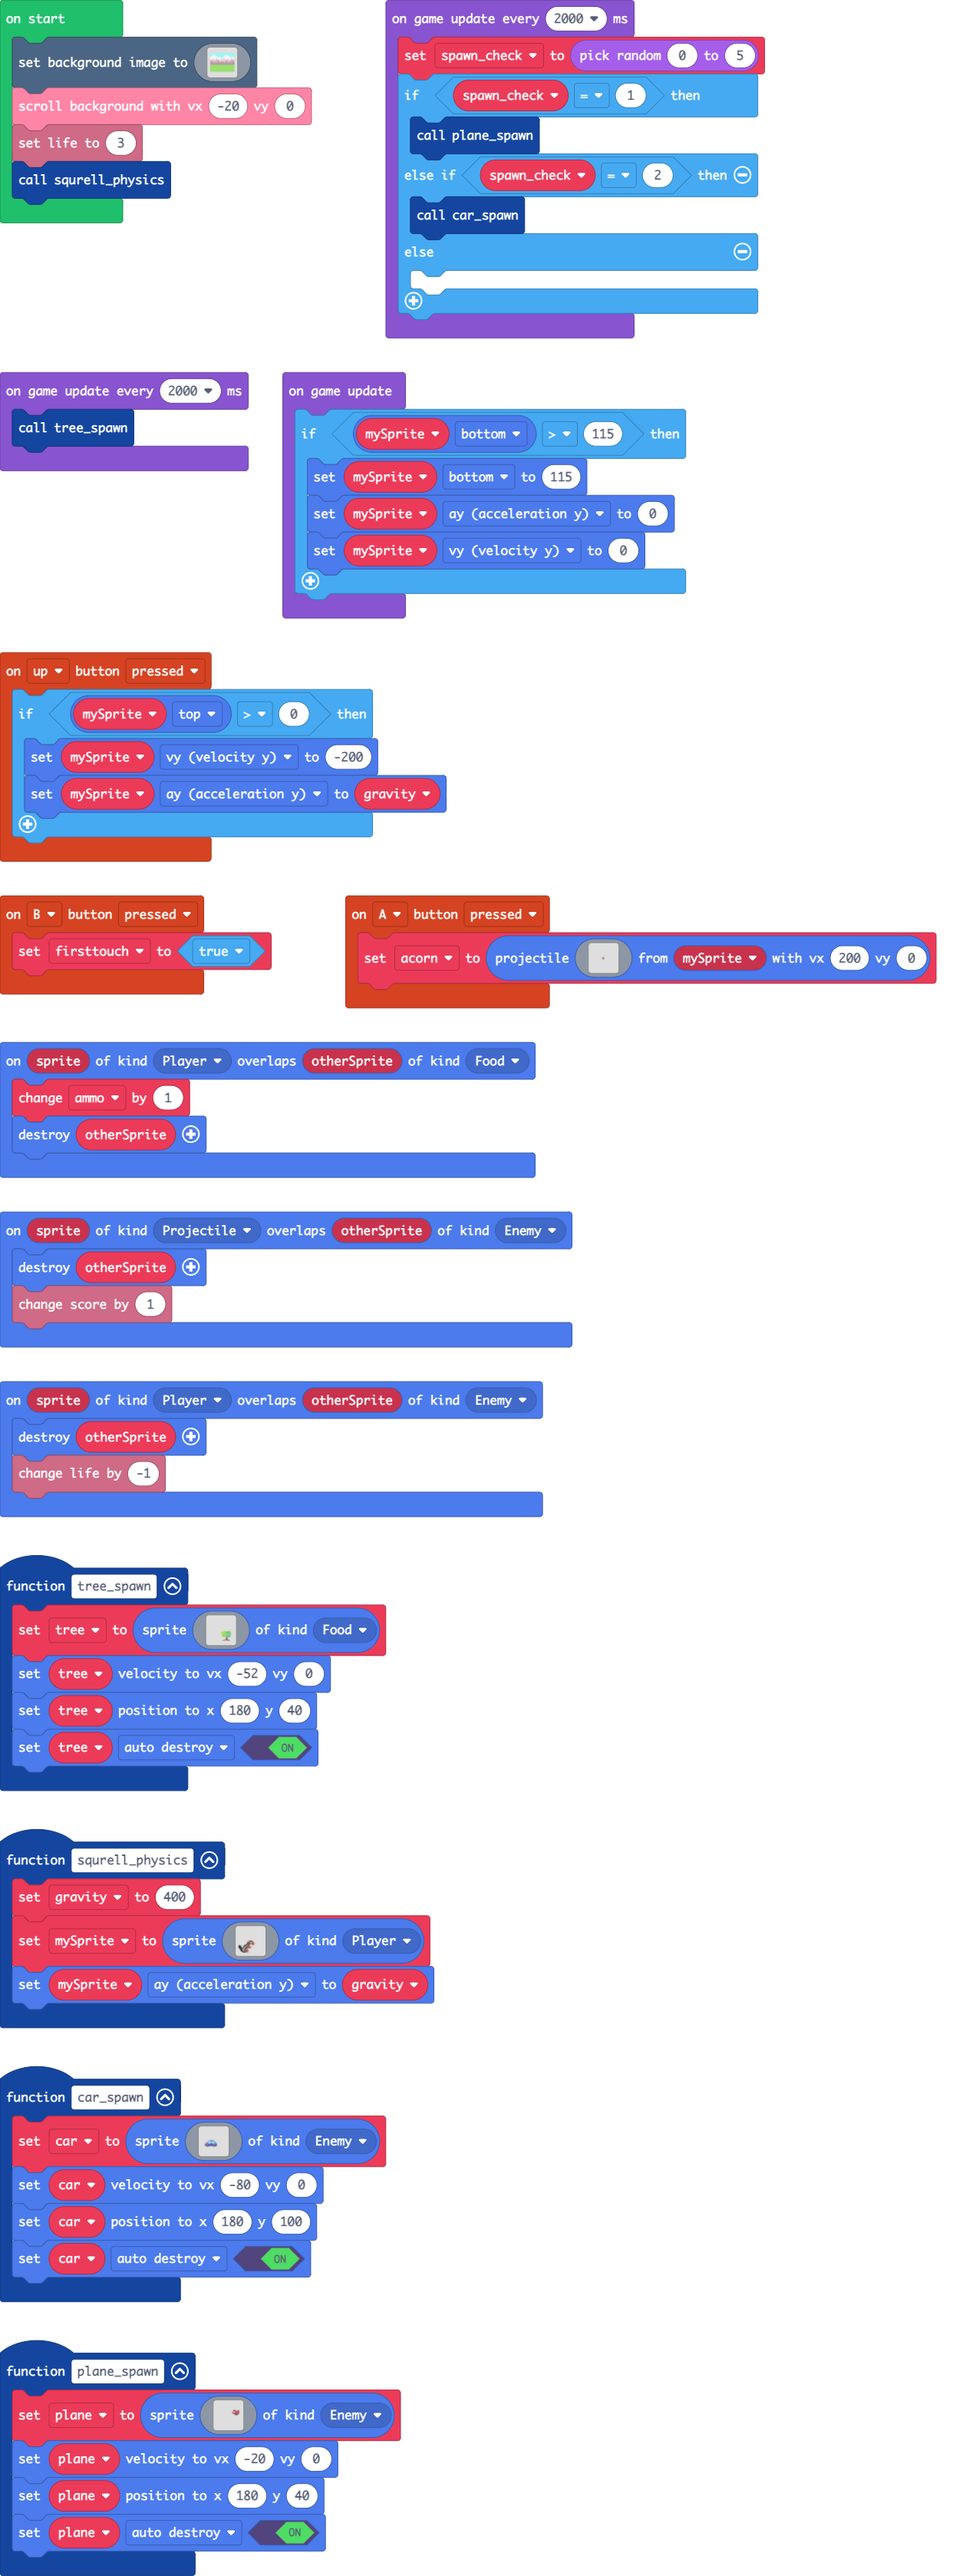
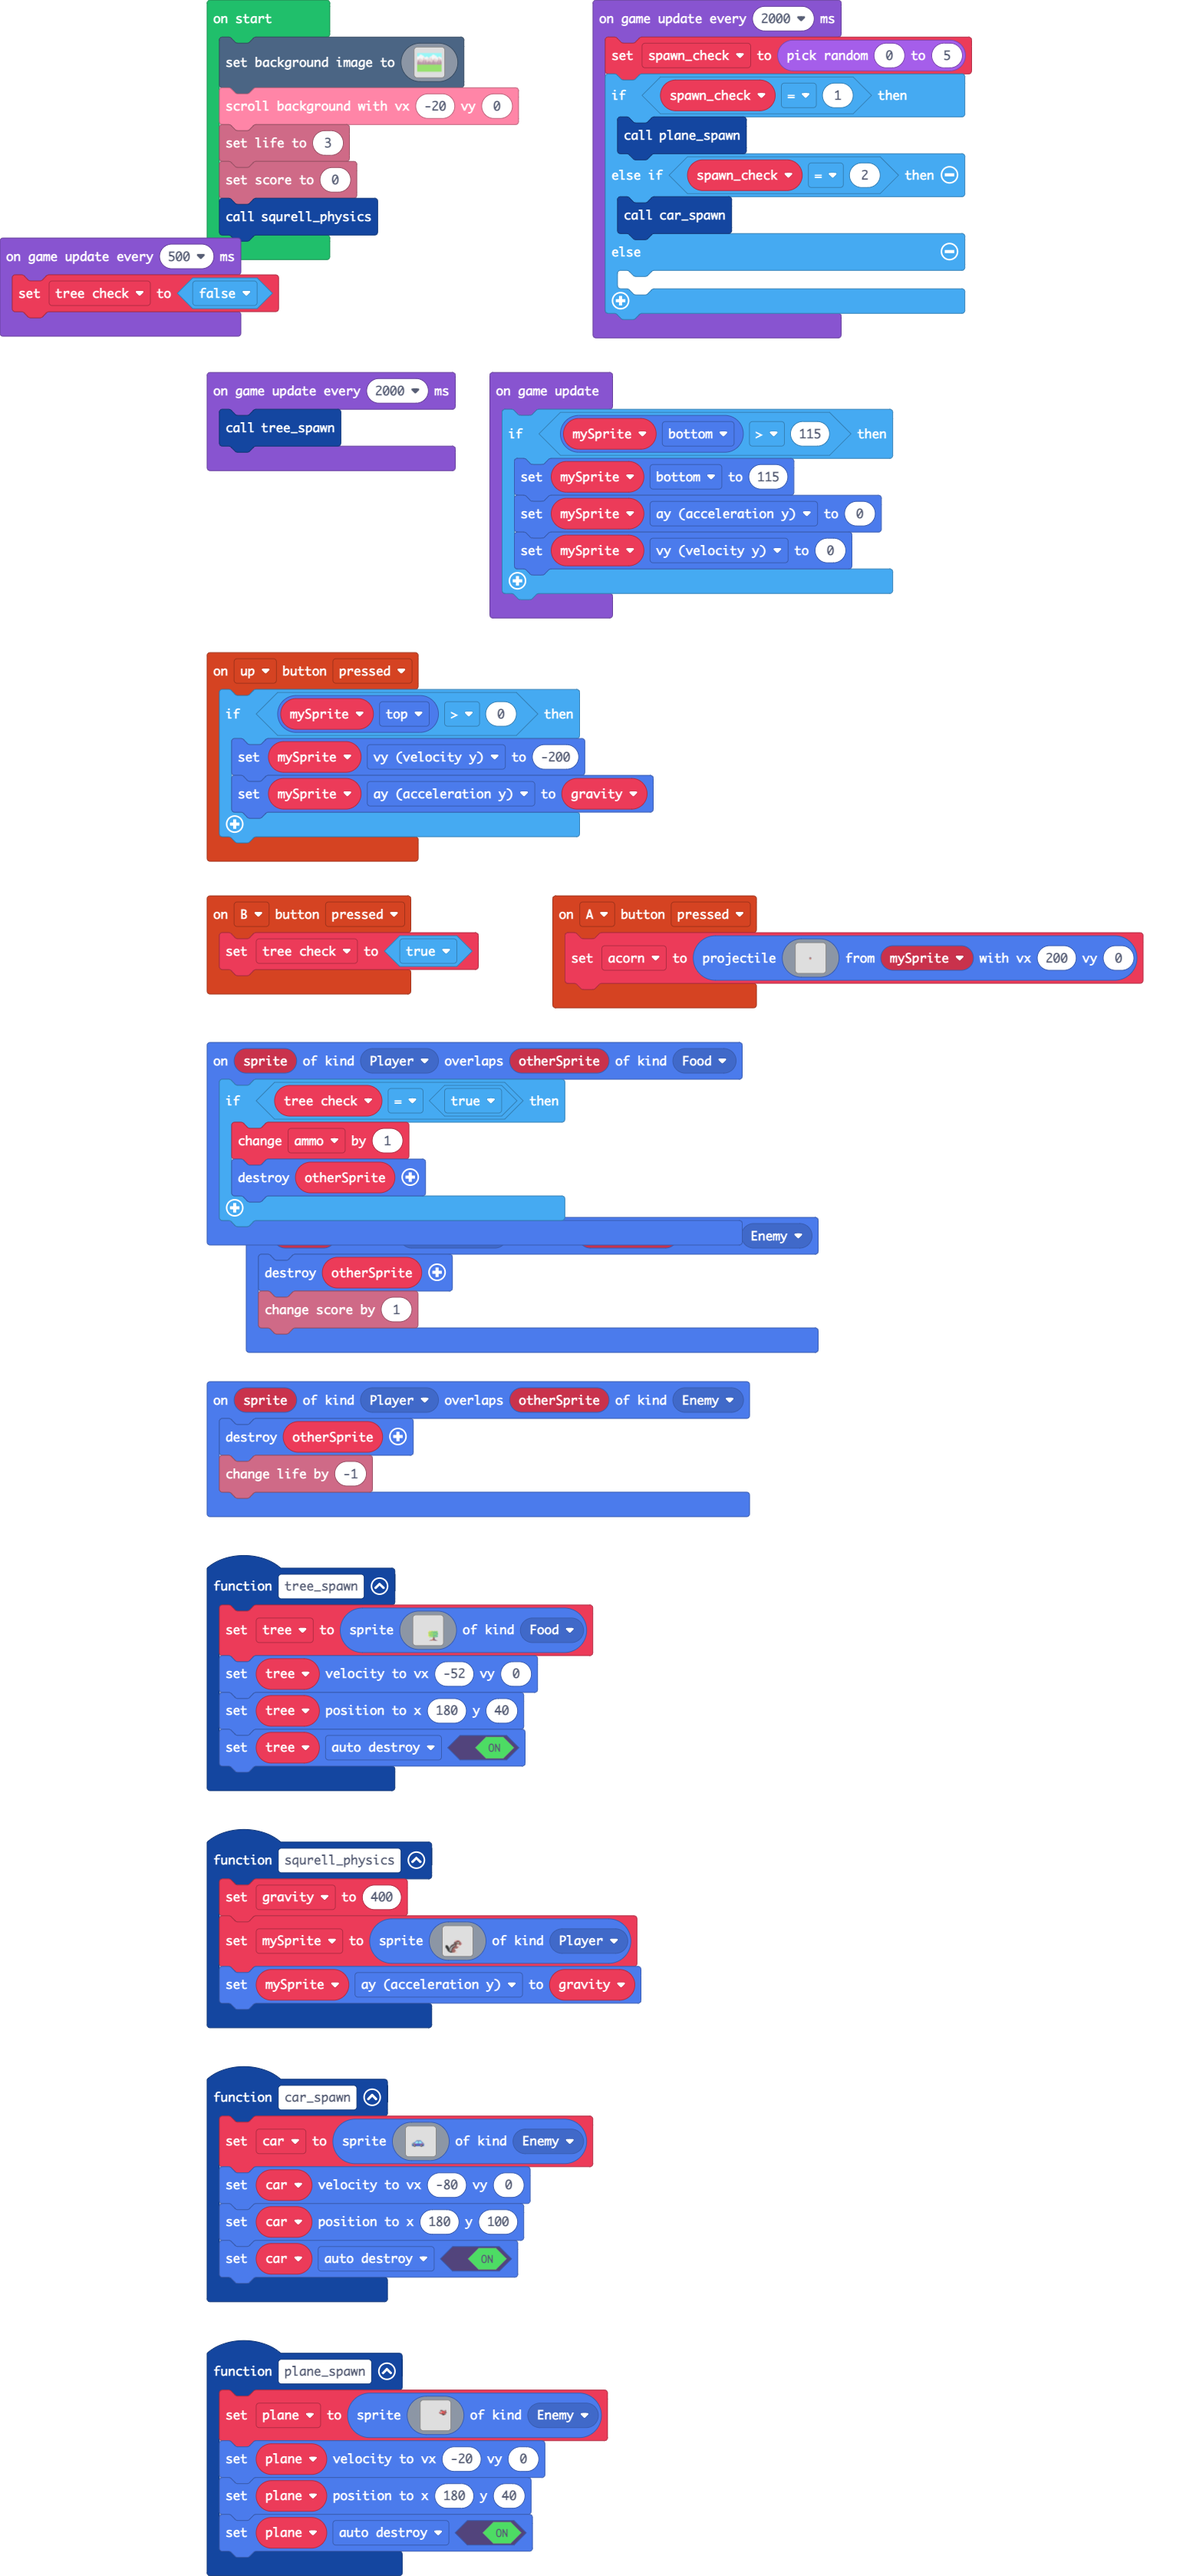
Update main.blocks, main.ts

diff --git a/main.ts b/main.ts
@@ -5,7 +5,7 @@ controller.up.onEvent(ControllerButtonEvent.Pressed, function () {
     }
 })
 controller.B.onEvent(ControllerButtonEvent.Pressed, function () {
-    firsttouch = true
+    tree_check = true
 })
 function tree_spawn () {
     tree = sprites.create(img`
@@ -199,8 +199,10 @@ function car_spawn () {
     car.setFlag(SpriteFlag.AutoDestroy, true)
 }
 sprites.onOverlap(SpriteKind.Player, SpriteKind.Food, function (sprite, otherSprite) {
-    ammo += 1
-    otherSprite.destroy()
+    if (tree_check == true) {
+        ammo += 1
+        otherSprite.destroy()
+    }
 })
 sprites.onOverlap(SpriteKind.Projectile, SpriteKind.Enemy, function (sprite, otherSprite) {
     otherSprite.destroy()
@@ -303,7 +305,7 @@ let ammo = 0
 let car: Sprite = null
 let acorn: Sprite = null
 let tree: Sprite = null
-let firsttouch = false
+let tree_check = false
 let gravity = 0
 let mySprite: Sprite = null
 scene.setBackgroundImage(img`
@@ -430,6 +432,7 @@ scene.setBackgroundImage(img`
     `)
 scroller.scrollBackgroundWithSpeed(-20, 0)
 info.setLife(3)
+info.setScore(0)
 squrell_physics()
 game.onUpdate(function () {
     if (mySprite.bottom > 115) {
@@ -450,4 +453,7 @@ game.onUpdateInterval(2000, function () {
 })
 game.onUpdateInterval(2000, function () {
     tree_spawn()
+})
+game.onUpdateInterval(500, function () {
+    tree_check = false
 })
